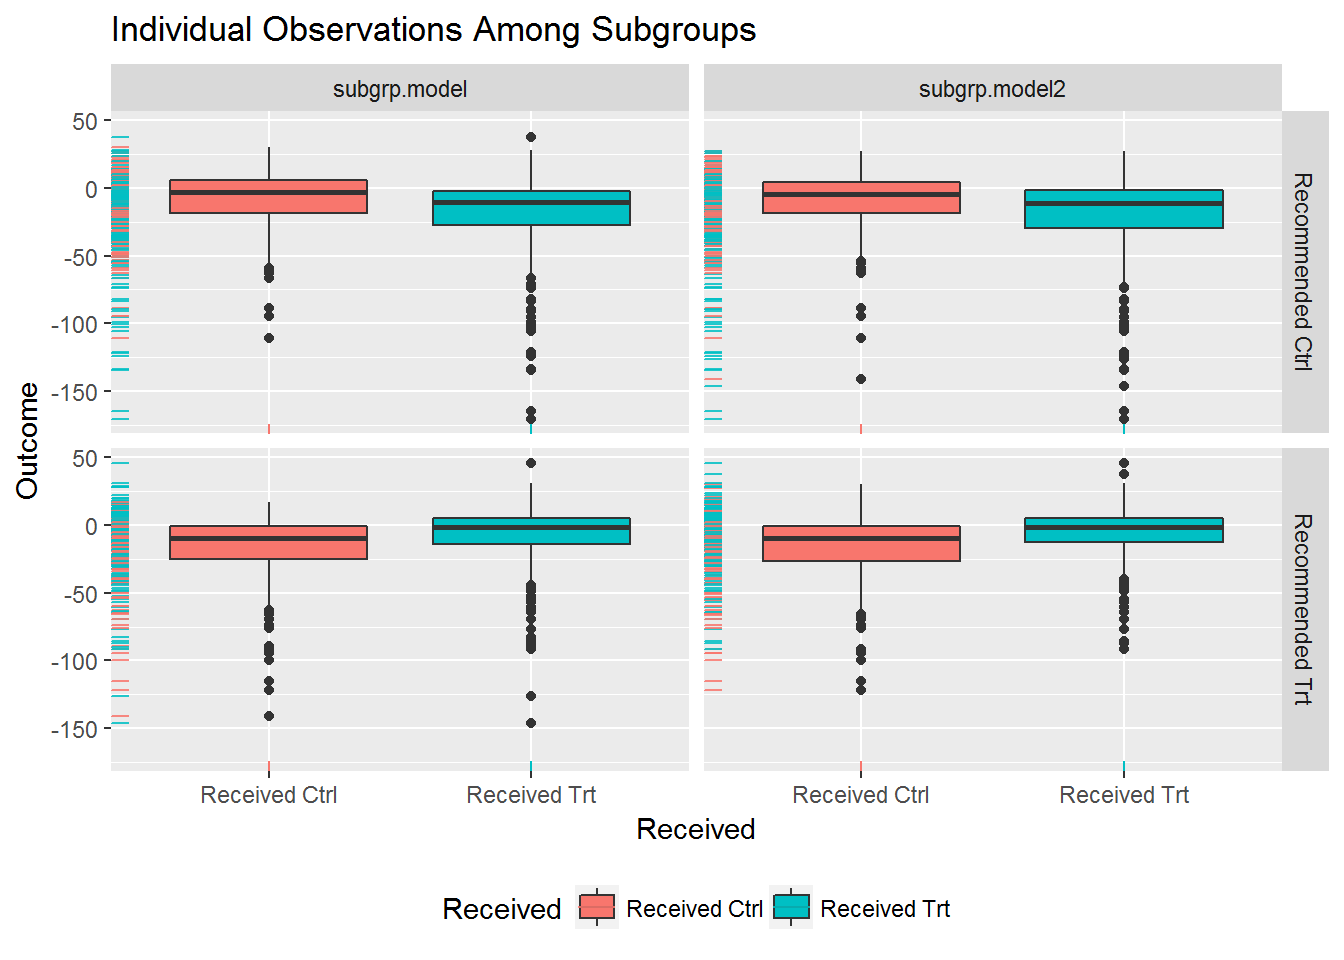
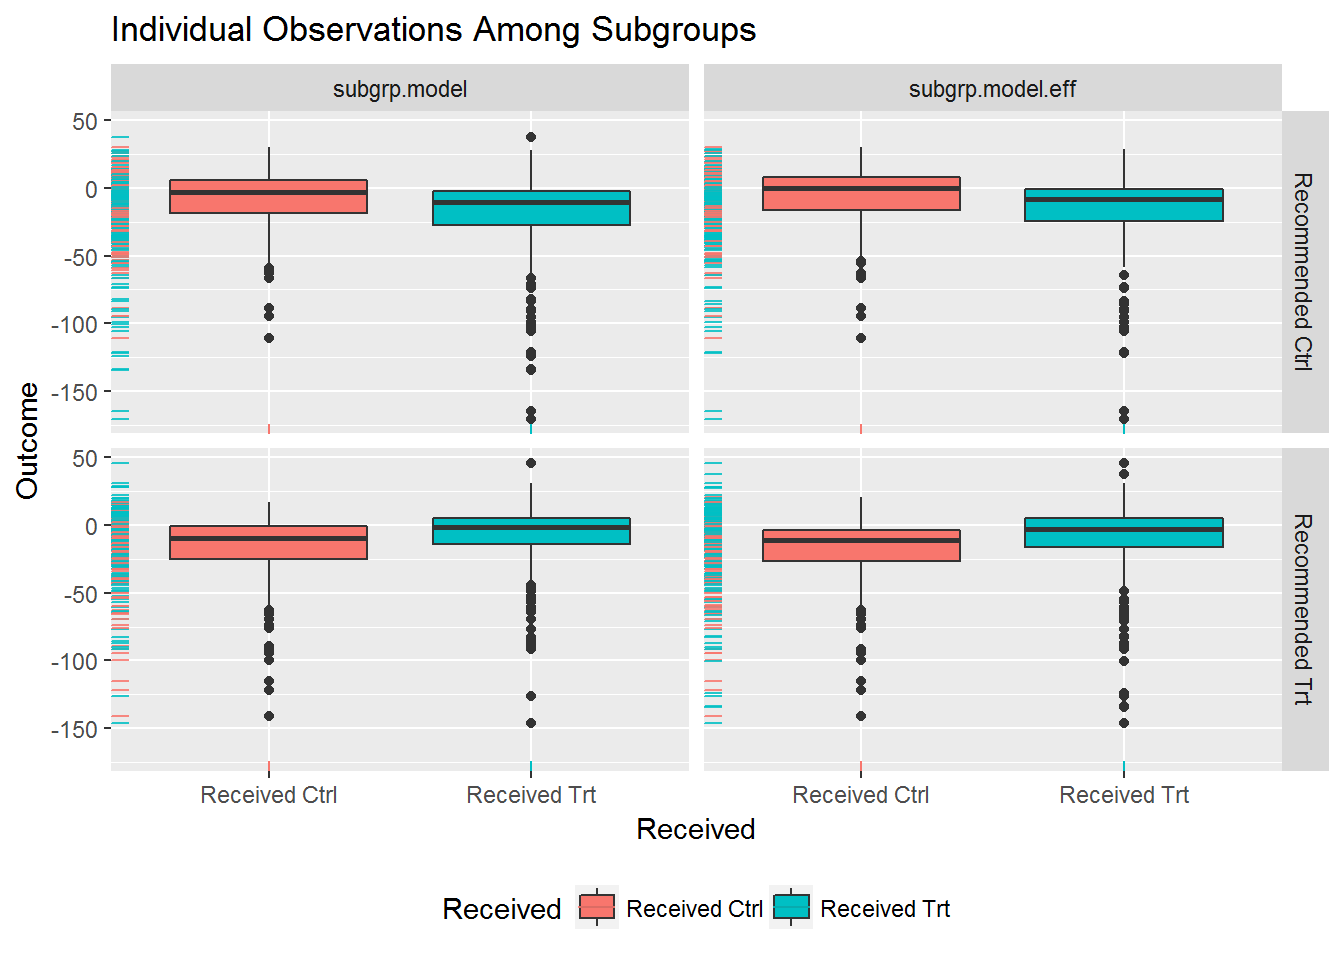
updated vignette to include efficiency augmentation

diff --git a/docs/articles/usage_of_the_personalized_package.html b/docs/articles/usage_of_the_personalized_package.html
@@ -50,7 +50,7 @@
       <h1>Usage of the Personalized Package</h1>
                         <h4 class="author">Jared Huling</h4>
             
-            <h4 class="date">2017-05-31</h4>
+            <h4 class="date">2017-06-02</h4>
           </div>
 
     
@@ -501,6 +501,58 @@ subgrp.cox &lt;-<span class="st"> </span><span class="kw"><a href="../reference/
 ## V11 -0.022057802
 ## V50  0.019614042</code></pre>
 </div>
+<div id="efficiency-augmentation" class="section level3">
+<h3 class="hasAnchor">
+<a href="#efficiency-augmentation" class="anchor"></a>Efficiency Augmentation</h3>
+<p>The <code>personalized</code> package also allows for efficiency augmentation of the subgroup identification models for continuous outcomes. The basic idea of efficiency augmentation is to construct a model for the main effects of the model and shift the outcome based on these main effects. The resulting estimator based on the shifted outcome can be more efficient than using the outcome itself.</p>
+<p>In the <code>personalized</code> package, this involves providing <code><a href="../reference/fit.subgroup.html">fit.subgroup()</a></code> a function which inputs the covariate information <code>x</code> and the outcomes <code>y</code> and outputs a prediction for <code>y</code> based on <code>x</code>. The following is an example of such a function:</p>
+<div class="sourceCode"><pre class="sourceCode r"><code class="sourceCode r">adjustment.func &lt;-<span class="st"> </span>function(x, y)
+{
+    df.x  &lt;-<span class="st"> </span><span class="kw">data.frame</span>(x)
+    
+    <span class="co"># add all squared terms to model</span>
+    form  &lt;-<span class="st"> </span><span class="kw">eval</span>(<span class="kw">paste</span>(<span class="st">" ~ -1 + "</span>, 
+                <span class="kw">paste</span>(<span class="kw">paste</span>(<span class="st">'poly('</span>, <span class="kw">colnames</span>(df.x), <span class="st">', 2)'</span>, <span class="dt">sep=</span><span class="st">''</span>), 
+                      <span class="dt">collapse=</span><span class="st">" + "</span>)))
+    mm    &lt;-<span class="st"> </span><span class="kw">model.matrix</span>(<span class="kw">as.formula</span>(form), <span class="dt">data =</span> df.x)
+    cvmod &lt;-<span class="st"> </span><span class="kw">cv.glmnet</span>(<span class="dt">y =</span> y, <span class="dt">x =</span> mm, <span class="dt">nfolds =</span> <span class="dv">10</span>)
+    predictions &lt;-<span class="st"> </span><span class="kw">predict</span>(cvmod, <span class="dt">newx =</span> mm, <span class="dt">s =</span> <span class="st">"lambda.min"</span>)
+}</code></pre></div>
+<p>Then this can be used in <code><a href="../reference/fit.subgroup.html">fit.subgroup()</a></code> by passing the function to the argument <code>augment.func</code> like the following:</p>
+<div class="sourceCode"><pre class="sourceCode r"><code class="sourceCode r">subgrp.model.eff &lt;-<span class="st"> </span><span class="kw"><a href="../reference/fit.subgroup.html">fit.subgroup</a></span>(<span class="dt">x =</span> x, <span class="dt">y =</span> y,
+                             <span class="dt">trt =</span> trt,
+                             <span class="dt">propensity.func =</span> prop.func,
+                             <span class="dt">loss   =</span> <span class="st">"sq_loss_lasso"</span>,
+                             <span class="dt">augment.func =</span> adjustment.func,
+                             <span class="dt">nfolds =</span> <span class="dv">10</span>)              <span class="co"># option for cv.glmnet</span>
+
+<span class="kw">summary</span>(subgrp.model.eff)</code></pre></div>
+<pre><code>## family:  gaussian 
+## loss:    sq_loss_lasso 
+## method:  weighting 
+## 
+## Average Outcomes:
+##                  Recommended Trt   Recommended Ctrl
+## Received Trt  -10.4651 (n = 303) -16.1294 (n = 287)
+## Received Ctrl -18.7664 (n = 212)   -6.693 (n = 198)
+## 
+##  Trt  Effect Among Recommended Trt Ctrl Effect Among Recommended Ctrl 
+##                   8.3013 (n = 515)                   9.4364 (n = 485) 
+## 
+## Benefit score quantiles: 
+##       0%      25%      50%      75%     100% 
+## -11.5976  -2.4900   0.1272   2.6141  10.5525 
+## 
+## 6 variables selected by the lasso (cross validation criterion).
+## 
+##         Estimate
+## V2   0.861687172
+## V3  -0.549912434
+## V11 -0.728651654
+## V20 -0.008783494
+## V30 -0.037449897
+## V47 -0.134335144</code></pre>
+</div>
 <div id="plotting-fitted-models" class="section level3">
 <h3 class="hasAnchor">
 <a href="#plotting-fitted-models" class="anchor"></a>Plotting Fitted Models</h3>
@@ -512,7 +564,7 @@ subgrp.cox &lt;-<span class="st"> </span><span class="kw"><a href="../reference/
 <div class="sourceCode"><pre class="sourceCode r"><code class="sourceCode r"><span class="kw">plot</span>(subgrp.model, <span class="dt">type =</span> <span class="st">"interaction"</span>)</code></pre></div>
 <p><img src="usage_of_the_personalized_package_files/figure-html/plot_ex_model_3-1.png" width="672"></p>
 <p>Multiple models can be visually compared using the <code><a href="../reference/plotCompare.html">plotCompare()</a></code> function, which offers the same plotting options as the <code><a href="../reference/plot.html">plot.subgroup_fitted()</a></code> function.</p>
-<div class="sourceCode"><pre class="sourceCode r"><code class="sourceCode r"><span class="kw"><a href="../reference/plotCompare.html">plotCompare</a></span>(subgrp.model, subgrp.model2)</code></pre></div>
+<div class="sourceCode"><pre class="sourceCode r"><code class="sourceCode r"><span class="kw"><a href="../reference/plotCompare.html">plotCompare</a></span>(subgrp.model, subgrp.model.eff)</code></pre></div>
 <p><img src="usage_of_the_personalized_package_files/figure-html/plot_compare_ex2-1.png" width="672"></p>
 </div>
 </div>
@@ -531,14 +583,14 @@ subgrp.cox &lt;-<span class="st"> </span><span class="kw"><a href="../reference/
 <p>The first method is prediction-based. For each replication in this procedure, data are randomly partitioned into a training and testing portion. For each replocation the subgroup identification model is estimated using the training procedure and the subgroup treatment effects are estimated using the test data. This method requires two arguments to be passed to <code><a href="../reference/validate.subgroup.html">validate.subgroup()</a></code>. The first argument is <code>B</code>, the number of replications and the second argument is <code>train.fraction</code>, which is the proportion of all samples which will be used for training (hence <code>1 - train.fraction</code> is the portion of samples used for testing).</p>
 <p>The main object which needs to be passed to <code><a href="../reference/validate.subgroup.html">validate.subgroup()</a></code> is a fitted object returned by the <code><a href="../reference/fit.subgroup.html">fit.subgroup()</a></code>. Note that in order to validate a fitted object from <code><a href="../reference/fit.subgroup.html">fit.subgroup()</a></code>, the model must be fit with the <code><a href="../reference/fit.subgroup.html">fit.subgroup()</a></code> <code>retcall</code> set to <code>TRUE</code>.</p>
 <div class="sourceCode"><pre class="sourceCode r"><code class="sourceCode r"><span class="co"># check that the object is an object returned by fit.subgroup()</span>
-<span class="kw">class</span>(subgrp.model2)</code></pre></div>
+<span class="kw">class</span>(subgrp.model.eff)</code></pre></div>
 <pre><code>## [1] "subgroup_fitted"</code></pre>
-<div class="sourceCode"><pre class="sourceCode r"><code class="sourceCode r">validation2 &lt;-<span class="st"> </span><span class="kw"><a href="../reference/validate.subgroup.html">validate.subgroup</a></span>(subgrp.model, 
+<div class="sourceCode"><pre class="sourceCode r"><code class="sourceCode r">validation.eff &lt;-<span class="st"> </span><span class="kw"><a href="../reference/validate.subgroup.html">validate.subgroup</a></span>(subgrp.model.eff, 
                                  <span class="dt">B =</span> 25L,  <span class="co"># specify the number of replications</span>
                                  <span class="dt">method =</span> <span class="st">"training_test_replication"</span>,
                                  <span class="dt">train.fraction =</span> <span class="fl">0.75</span>)
 
-validation2</code></pre></div>
+validation.eff</code></pre></div>
 <pre><code>## family:  gaussian 
 ## loss:    sq_loss_lasso 
 ## method:  weighting 
@@ -547,11 +599,11 @@ validation2</code></pre></div>
 ## 
 ## Average Test Set Outcomes:
 ##                      Recommended Trt       Recommended Ctrl
-## Received Trt  -10.8837 (SE = 2.7942)  -15.4978 (SE = 2.669)
-## Received Ctrl -14.6538 (SE = 2.8199) -11.8643 (SE = 3.5639)
+## Received Trt  -10.1769 (SE = 2.8146) -15.3119 (SE = 2.5351)
+## Received Ctrl -18.6555 (SE = 2.4117)  -6.7609 (SE = 2.5968)
 ## 
 ##  Trt  Effect Among Recommended Trt Ctrl Effect Among Recommended Ctrl 
-##               3.7701 (SE = 3.7377)               3.6335 (SE = 4.2794)</code></pre>
+##               8.4785 (SE = 3.8957)               8.5509 (SE = 4.3826)</code></pre>
 </div>
 <div id="bootstrap-bias-correction" class="section level3">
 <h3 class="hasAnchor">
@@ -580,11 +632,11 @@ validation3</code></pre></div>
 ## 
 ## Average Bootstrap Bias-Corrected Outcomes:
 ##                      Recommended Trt       Recommended Ctrl
-## Received Trt   -9.0586 (SE = 1.4467)  -17.9544 (SE = 2.004)
-## Received Ctrl -14.9024 (SE = 1.4783) -10.9613 (SE = 1.3971)
+## Received Trt   -9.1345 (SE = 1.4925) -17.5627 (SE = 1.4851)
+## Received Ctrl -15.2528 (SE = 1.9605)  -11.3529 (SE = 1.649)
 ## 
 ##  Trt  Effect Among Recommended Trt Ctrl Effect Among Recommended Ctrl 
-##               5.8437 (SE = 2.1738)               6.9931 (SE = 2.5126)</code></pre>
+##               6.1182 (SE = 2.6145)               6.2098 (SE = 2.3404)</code></pre>
 </div>
 <div id="plotting-validated-models" class="section level3">
 <h3 class="hasAnchor">
@@ -594,9 +646,10 @@ validation3</code></pre></div>
 <p><img src="usage_of_the_personalized_package_files/figure-html/plot_ex_model_1a-1.png" width="672"></p>
 <div class="sourceCode"><pre class="sourceCode r"><code class="sourceCode r"><span class="kw">plot</span>(validation, <span class="dt">type =</span> <span class="st">"density"</span>)</code></pre></div>
 <p><img src="usage_of_the_personalized_package_files/figure-html/plot_ex_model_1b-1.png" width="672"></p>
-<p>Multiple validated models can be visually compared using the <code><a href="../reference/plotCompare.html">plotCompare()</a></code> function, which offers the same plotting options as the <code><a href="../reference/plot.html">plot.subgroup_validated()</a></code> function. Here we compare the model fitted using <code>sq_loss_lasso</code> to the one fitted using <code>sq_loss_lasso_gam</code>:</p>
-<div class="sourceCode"><pre class="sourceCode r"><code class="sourceCode r"><span class="kw"><a href="../reference/plotCompare.html">plotCompare</a></span>(validation, validation2)</code></pre></div>
+<p>Multiple validated models can be visually compared using the <code><a href="../reference/plotCompare.html">plotCompare()</a></code> function, which offers the same plotting options as the <code><a href="../reference/plot.html">plot.subgroup_validated()</a></code> function. Here we compare the model fitted using <code>sq_loss_lasso</code> to the one fitted using <code>sq_loss_lasso</code> and efficiency augmentation:</p>
+<div class="sourceCode"><pre class="sourceCode r"><code class="sourceCode r"><span class="kw"><a href="../reference/plotCompare.html">plotCompare</a></span>(validation, validation.eff)</code></pre></div>
 <p><img src="usage_of_the_personalized_package_files/figure-html/plot_compare_ex3-1.png" width="672"></p>
+<p>We can see above that the model with efficiency augmentation finds subgroups with more impactful treatment effects.</p>
 </div>
 </div>
 </div>

diff --git a/docs/reference/fit.subgroup.html b/docs/reference/fit.subgroup.html
@@ -82,8 +82,8 @@
   <span class='st'>"logistic_loss_lasso"</span>, <span class='st'>"cox_loss_lasso"</span>, <span class='st'>"sq_loss_lasso_gam"</span>,
   <span class='st'>"logistic_loss_lasso_gam"</span>, <span class='st'>"sq_loss_gam"</span>, <span class='st'>"logistic_loss_gam"</span>, <span class='st'>"sq_loss_gbm"</span>,
   <span class='st'>"abs_loss_gbm"</span>, <span class='st'>"huberized_loss_gbm"</span>, <span class='st'>"logistic_loss_gbm"</span>, <span class='st'>"cox_loss_gbm"</span>),
-  <span class='kw'>method</span> <span class='kw'>=</span> <span class='fu'>c</span>(<span class='st'>"weighting"</span>, <span class='st'>"a_learning"</span>), <span class='kw'>cutpoint</span> <span class='kw'>=</span> <span class='fl'>0</span>,
-  <span class='kw'>larger.outcome.better</span> <span class='kw'>=</span> <span class='fl'>TRUE</span>, <span class='kw'>retcall</span> <span class='kw'>=</span> <span class='fl'>TRUE</span>, <span class='no'>...</span>)</pre>
+  <span class='kw'>method</span> <span class='kw'>=</span> <span class='fu'>c</span>(<span class='st'>"weighting"</span>, <span class='st'>"a_learning"</span>), <span class='kw'>augment.func</span> <span class='kw'>=</span> <span class='kw'>NULL</span>,
+  <span class='kw'>cutpoint</span> <span class='kw'>=</span> <span class='fl'>0</span>, <span class='kw'>larger.outcome.better</span> <span class='kw'>=</span> <span class='fl'>TRUE</span>, <span class='kw'>retcall</span> <span class='kw'>=</span> <span class='fl'>TRUE</span>, <span class='no'>...</span>)</pre>
     
     <h2 class="hasAnchor" id="arguments"><a class="anchor" href="#arguments"></a> Arguments</h2>
     <table class="ref-arguments">
@@ -137,6 +137,15 @@ is complex.</p><ul>
     <tr>
       <th>method</th>
       <td><p>subgroup ID model type. Either the weighting or A-learning method of Chen et al, (2017)</p></td>
+    </tr>
+    <tr>
+      <th>augment.func</th>
+      <td><p>function which inputs the response <code>y</code>, the covariates <code>x</code>, and <code>trt</code> and outputs
+predicted values for the response using a model constructed with <code>x</code>. <code>augment.func()</code> can also be simply
+a function of <code>x</code> and <code>y</code>. This function is used for efficiency augmentation.
+When the form of the augmentation function is correct, it can provide efficient estimation of the subgroups
+Example: <code>augment.func &lt;- function(x, y) {lmod &lt;- lm(y ~ x); return(fitted(lmod))}</code></p>
+<p>Example 2: <code>augment.func &lt;- function(x, y, trt) {lmod &lt;- lm(y ~ x + trt); return(fitted(lmod))}</code></p></td>
     </tr>
     <tr>
       <th>cutpoint</th>

diff --git a/docs/index.html b/docs/index.html
@@ -74,7 +74,14 @@
   </div>
 
   <div class="col-md-3 hidden-xs hidden-sm" id="sidebar">
-    <h2>License</h2>
+    <h2>Links</h2>
+<ul class="list-unstyled">
+<li>Browse source code at <br><a href="https://jaredhuling.github.io/personalized/">https://jaredhuling.github.io/personalized/</a>
+</li>
+<li>Report a bug at <br><a href="https://github.com/jaredhuling/personalized/issues">https://github.com/jaredhuling/personalized/issues</a>
+</li>
+</ul>
+<h2>License</h2>
 <p><a href="https://www.r-project.org/Licenses/GPL-2">GPL-2</a></p>
 <h2>Developers</h2>
 <ul class="list-unstyled">

diff --git a/docs/articles/index.html b/docs/articles/index.html
@@ -59,12 +59,7 @@
       </ul>
       
       <ul class="nav navbar-nav navbar-right">
-        <li>
-  <a href="https://github.com/jaredhuling/oem">
-    <span class="fa fa-github fa-lg"></span>
-     
-  </a>
-</li>
+        
       </ul>
     </div><!--/.nav-collapse -->
   </div><!--/.container -->
